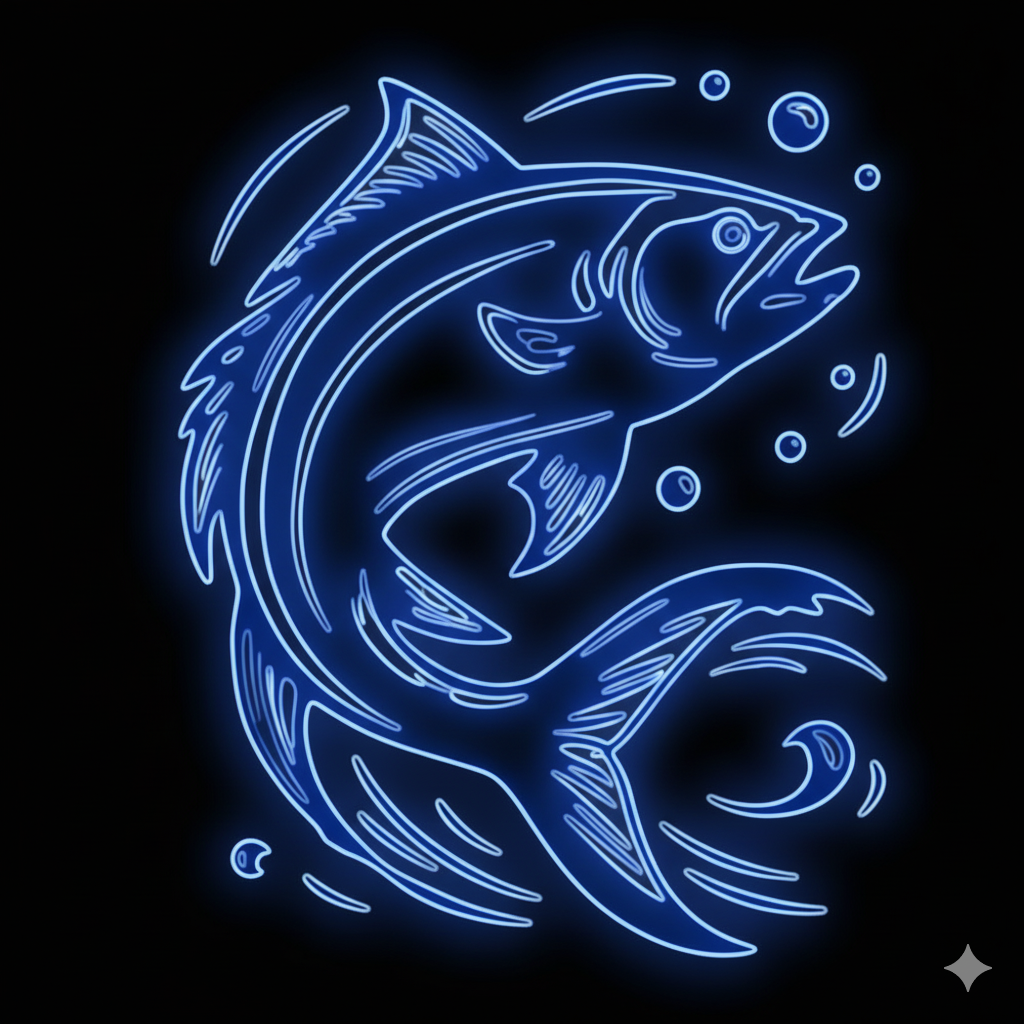
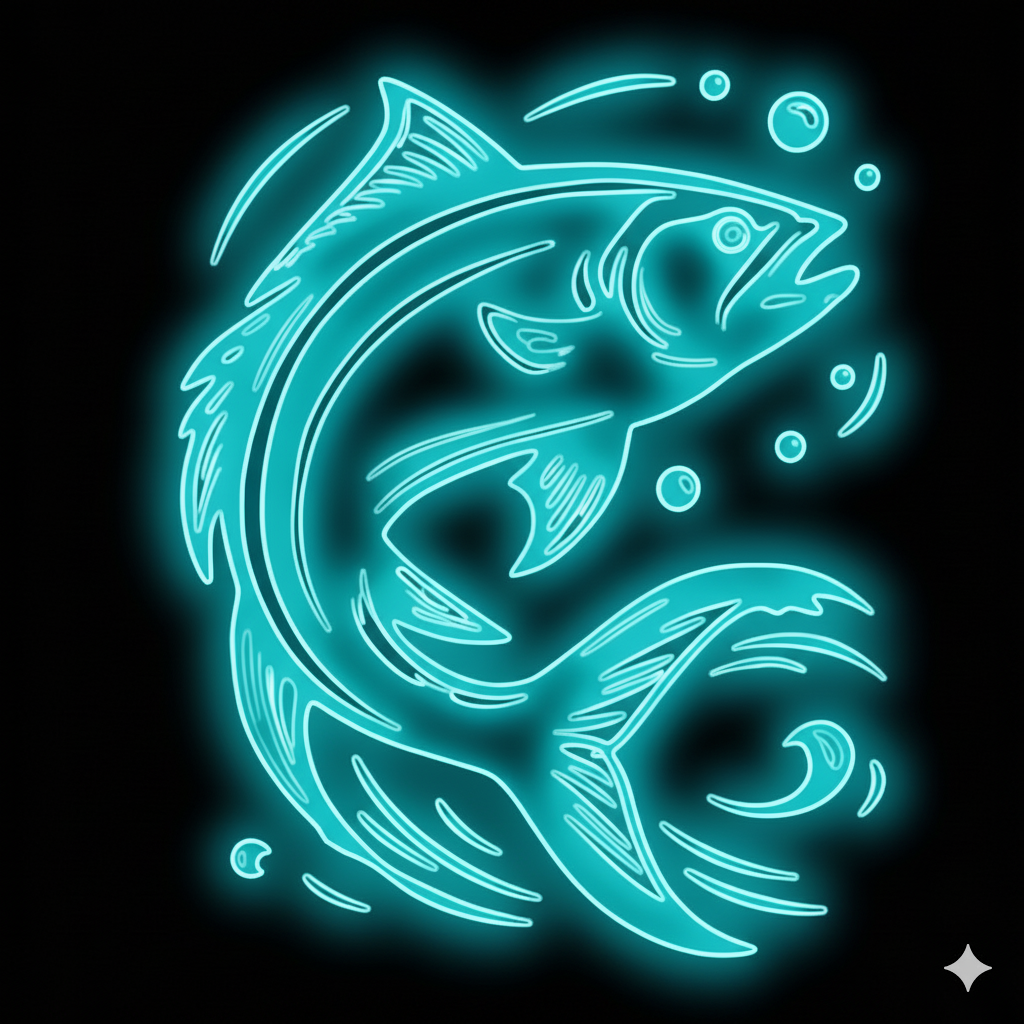
Changed some color coding.

diff --git a/sixthsense/app/(tabs)/profile.tsx b/sixthsense/app/(tabs)/profile.tsx
@@ -46,9 +46,9 @@ const ProfileSettings = () => {
     <View style={styles.container}>
       <View style={styles.navbar}>
         <TouchableOpacity style={styles.navbarButton} onPress={toggleDropdown} activeOpacity={0.7}>
-          <MaterialIcons name="menu" size={28} color="#3c6570ff" />
+          <MaterialIcons name="menu" size={28} color="#3d88a6ff" />
           <Text style={styles.navbarTitle}>Account Management</Text>
-          <MaterialIcons name={dropdownOpen ? "expand-less" : "expand-more"} size={28} color="#3c6570ff" />
+          <MaterialIcons name={dropdownOpen ? "expand-less" : "expand-more"} size={28} color="#3d88a6ff" />
         </TouchableOpacity>
         <Animated.View style={[styles.dropdown, { height: dropdownHeight, overflow: 'hidden' }]}>
           {settings.map((item) => (
@@ -60,7 +60,7 @@ const ProfileSettings = () => {
                 item.onPress();
               }}
             >
-              <MaterialIcons name={item.icon} size={22} color="#3c6570ff" style={styles.icon} />
+              <MaterialIcons name={item.icon} size={22} color="#3d88a6ff" style={styles.icon} />
               <Text style={styles.dropdownLabel}>{item.label}</Text>
             </Pressable>
           ))}
@@ -103,7 +103,7 @@ const styles = StyleSheet.create({
     paddingHorizontal: 16,
   },
   navbarTitle: {
-    color: '#3c6570ff',
+    color: '#3d88a6ff',
     fontSize: 22,
     fontWeight: 'bold',
     marginHorizontal: 12,
@@ -157,7 +157,7 @@ const styles = StyleSheet.create({
   welcomeTitle: {
     fontSize: 28,
     fontWeight: 'bold',
-    color: '#3c6570ff',
+    color: '#3d88a6ff',
     marginBottom: 16,
     textAlign: 'center',
   },

diff --git a/sixthsense/app/(tabs)/_layout.tsx b/sixthsense/app/(tabs)/_layout.tsx
@@ -27,14 +27,14 @@ export default function TabLayout() {
         name="index"
         options={{
           title: 'Home',
-          tabBarIcon: () => <IconSymbol size={28} name="house.fill" color="#3c6570ff" />,
+          tabBarIcon: () => <IconSymbol size={28} name="house.fill" color="#3d88a6ff" />,
         }}
       />
         <Tabs.Screen
           name="profile"
           options={{
             title: 'Profile',
-            tabBarIcon: () => <IconSymbol size={28} name="person.circle" color="#3c6570ff" />,
+            tabBarIcon: () => <IconSymbol size={28} name="person.circle" color="#3d88a6ff" />,
           }}
         />
       {/* Removed signin and signup screens */}

diff --git a/sixthsense/app/screens/LoadingScreen.tsx b/sixthsense/app/screens/LoadingScreen.tsx
@@ -76,7 +76,7 @@ export default function LoadingScreen({ onComplete }: { onComplete: () => void }
       <View style={styles.overlay}>
         <View style={styles.logoContainer}>
           <Image
-            source={require('../../assets/images/fishlogo.jpg')}
+            source={require('../../assets/images/fishicon.png')}
             style={styles.logo}
           />
           
@@ -193,7 +193,7 @@ const styles = StyleSheet.create({
     top: 0,
     width: '100%',
     height: '100%',
-    backgroundColor: '#1648c7ff',
+    backgroundColor: '#53fcffff',
     borderRadius: 15,
     transformOrigin: 'left',
     zIndex: 2,
